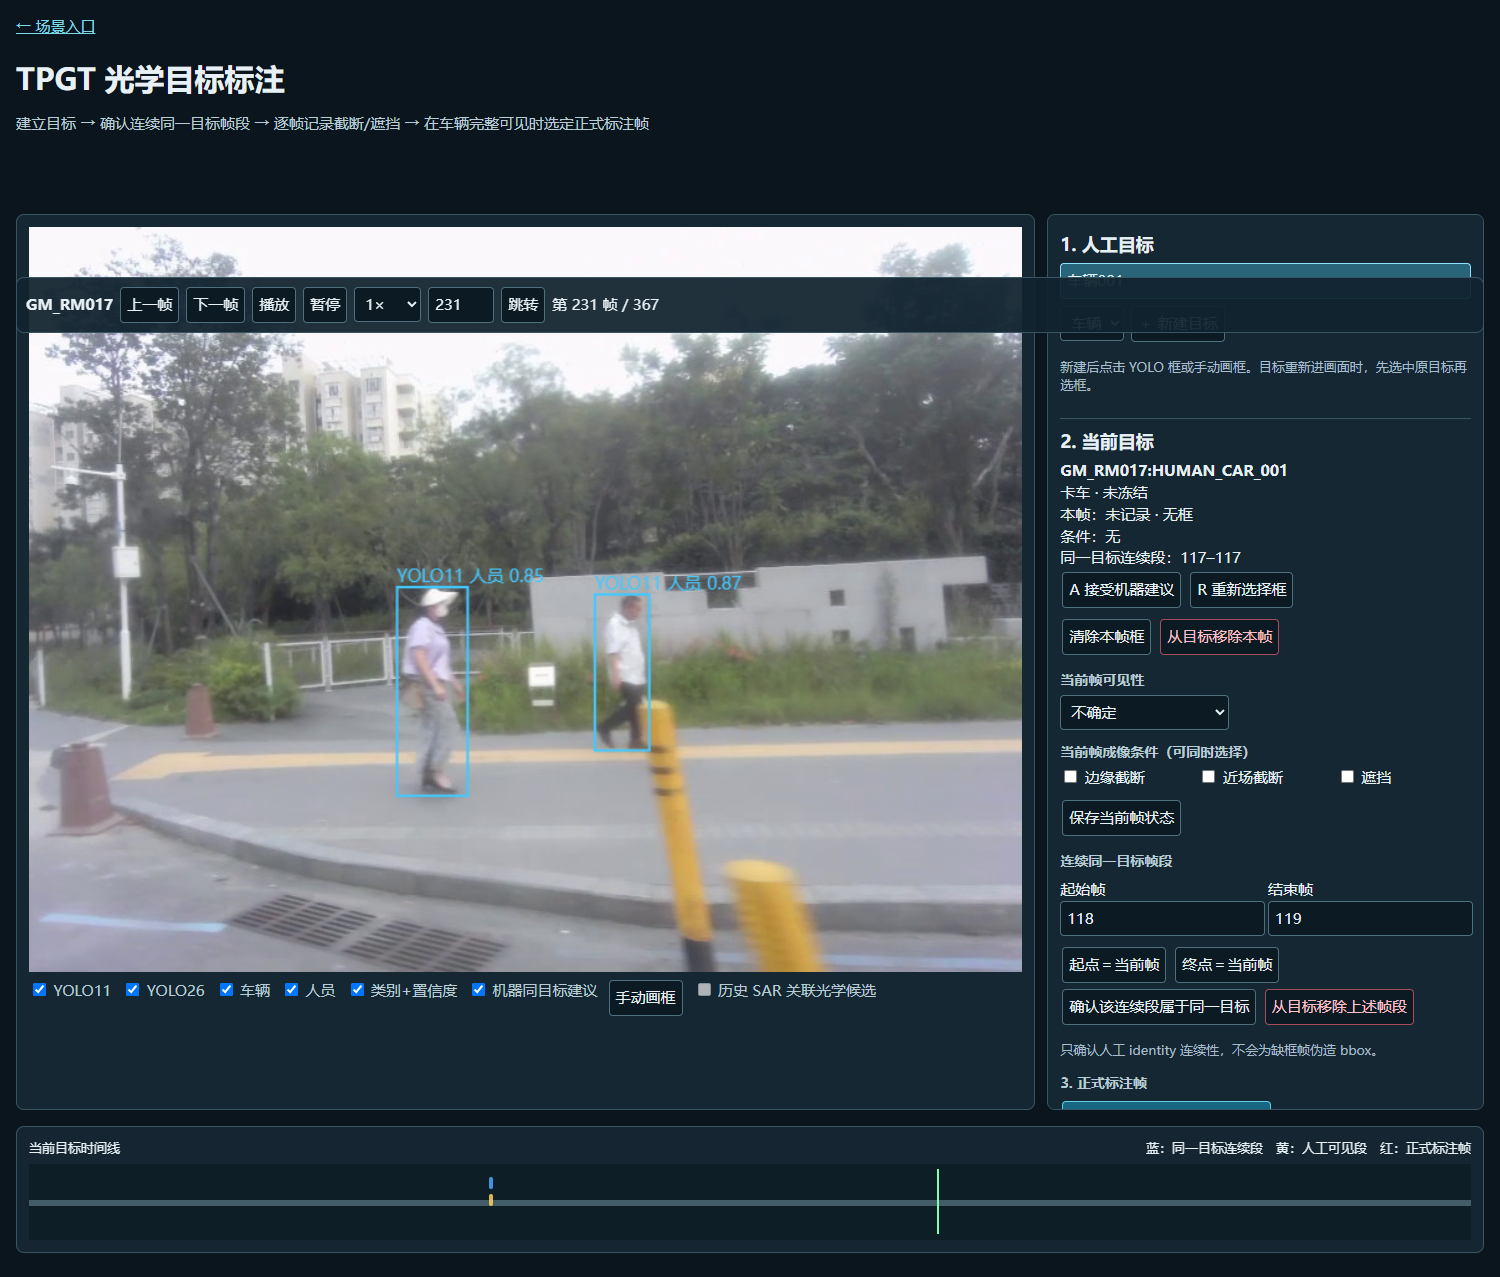
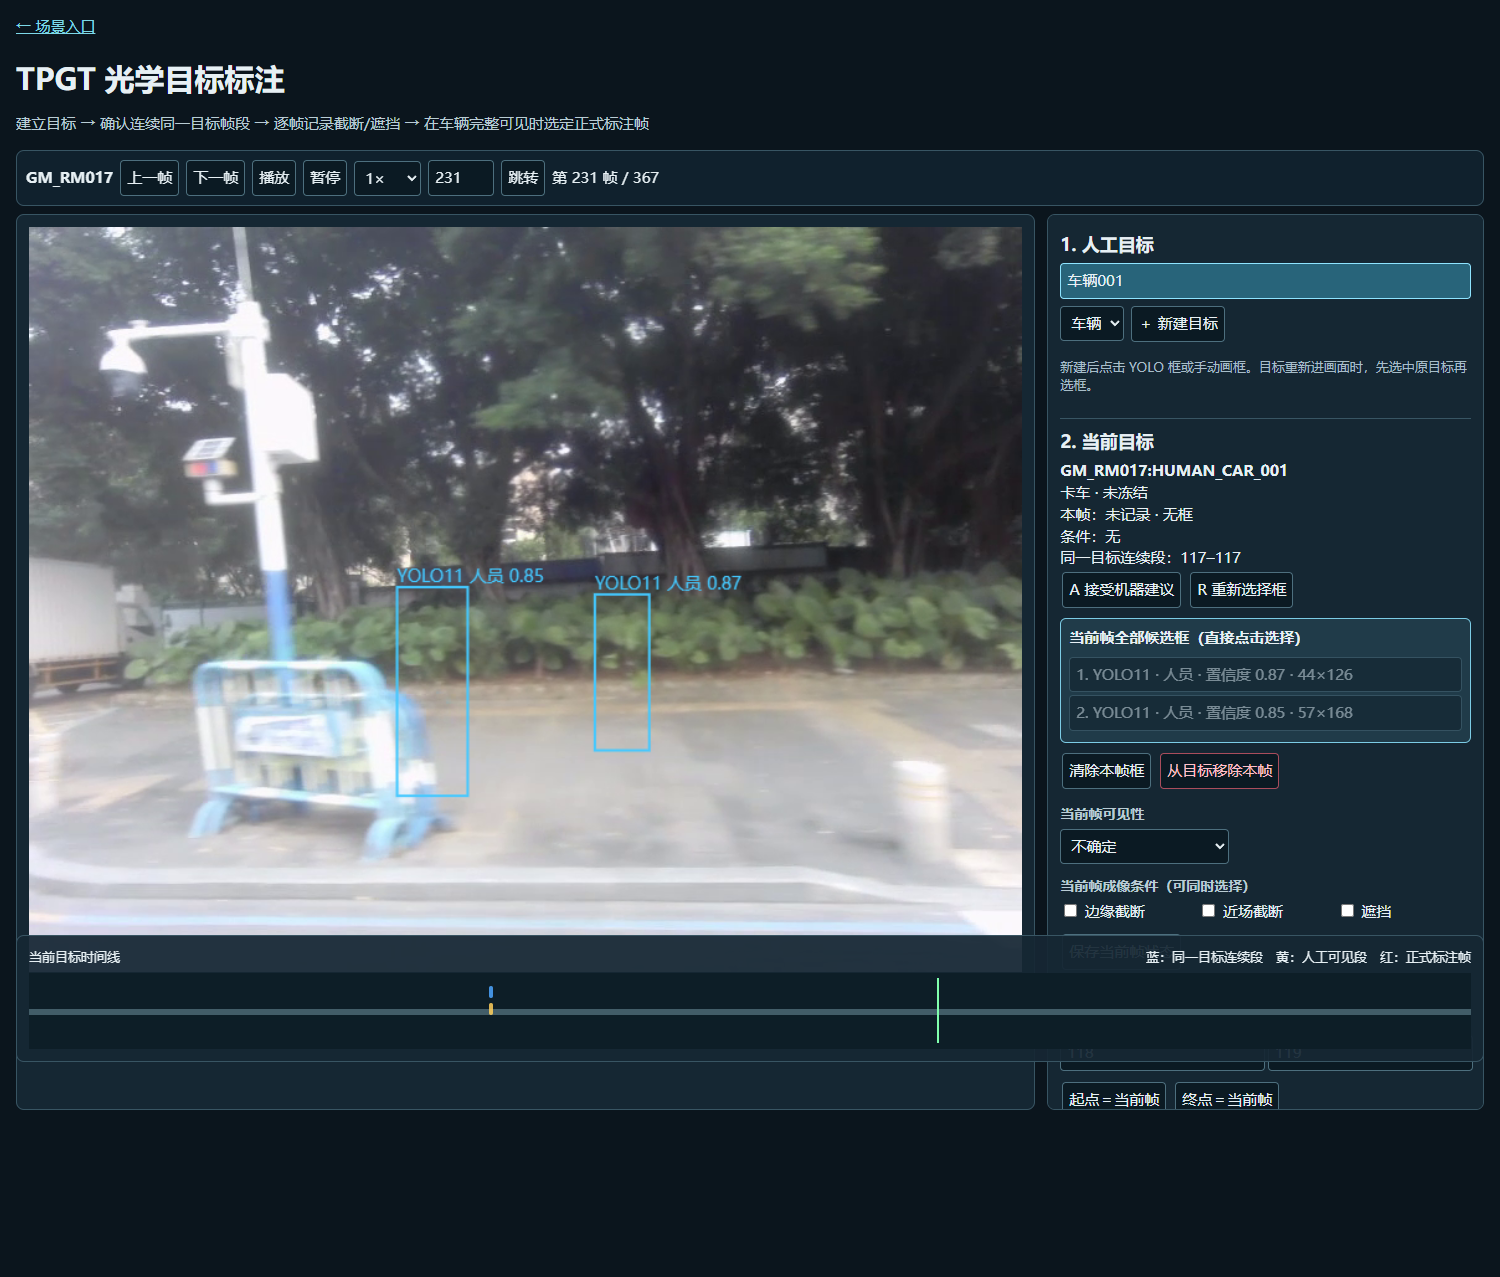
feat(tpgt): add persistent current-frame candidate list

diff --git a/output/tpgt/unified_target_review_observation/target_review.css b/output/tpgt/unified_target_review_observation/target_review.css
@@ -1,1 +1,2 @@
 body{margin:0;background:#0b151d;color:#e7f0f4;font:15px/1.45 system-ui,Segoe UI,sans-serif}main{max-width:1600px;margin:auto;padding:16px}a{color:#7dd8e8}.panel,.scene-card{background:#152733;border:1px solid #385563;border-radius:8px;padding:12px;margin:8px 0}.scene-grid{display:grid;grid-template-columns:repeat(3,1fr);gap:14px;margin-top:18px}.scene-card{display:flex;flex-direction:column;gap:8px;text-decoration:none;font-size:18px}.scene-card span{font-size:14px;color:#b9ccd4}.workflow-hint{margin-top:-8px;color:#b9ccd4}.toolbar{position:sticky;top:0;z-index:5;background:#10222eee;padding:9px;border:1px solid #385563;border-radius:8px;display:flex;gap:7px;align-items:center;flex-wrap:wrap}button,input,select,textarea{font:inherit;background:#0b1a23;color:#e7f0f4;border:1px solid #4d6f7e;border-radius:4px;padding:6px}button{cursor:pointer}.primary{background:#176783;border-color:#65cce8}.warn{background:#795717}.danger{color:#ffb3be}.danger-button{border-color:#a94d5c;color:#ffc0c8}.muted{color:#a7bdc8;font-size:13px}.review-layout{display:grid;grid-template-columns:7fr 3fr;gap:12px}.stage{position:relative;background:#000;line-height:0;overflow:hidden;min-height:300px}.stage img{display:block;width:100%;height:auto}.stage canvas{position:absolute;inset:0;width:100%;height:100%;cursor:crosshair}.legend{display:flex;gap:11px;flex-wrap:wrap;color:#b9ccd4;margin-top:8px}.side{max-height:calc(100vh - 130px);overflow:auto}.side-section{border-bottom:1px solid #385563;padding-bottom:10px;margin-bottom:10px}.side-section:last-child{border-bottom:0}.side h2{font-size:18px;margin:5px 0}.side h3{font-size:14px;color:#b9ccd4;margin:12px 0 5px}.side button{margin:3px 2px}.compact-row{display:flex;gap:5px;align-items:center;flex-wrap:wrap}.frame-actions{margin-top:5px}.condition-grid{display:grid;grid-template-columns:repeat(3,1fr);gap:4px;margin:5px 0 8px}.target-item{display:block;width:100%;text-align:left;margin:4px 0!important}.target-item.active{background:#28647a;border-color:#8ee4ff}.proposal-chooser{background:#203b49;border:1px solid #7ccce5;border-radius:6px;padding:8px;margin:7px 0}.proposal-choice{display:block!important;width:100%;text-align:left}.proposal-preview{outline:2px solid #fff36b}.timeline-panel{position:sticky;bottom:0;background:#152733ee;z-index:4}.timeline-head{display:flex;justify-content:space-between;gap:12px;font-size:13px}.timeline{width:100%;height:76px;background:#0d1e27;position:relative;margin-top:6px;cursor:pointer}.track{height:6px;position:absolute;left:0;right:0;top:36px;background:#425d68}.band{position:absolute;height:12px;border-radius:4px;opacity:.85}.identity{background:#4ca6ff;top:13px}.human{background:#ffcf5b;top:30px}.annotation-mark{position:absolute;top:48px!important;width:4px!important;height:20px!important;background:#ff665f}.timeline #playhead{position:absolute;top:5px;width:2px;height:65px;background:#80ffad;z-index:3}.interval{display:grid;grid-template-columns:1fr 1fr;gap:5px;margin:8px 0}.interval input{width:calc(100% - 12px)}.small{font-size:12px}.hidden{display:none!important}@media(max-width:950px){.review-layout,.scene-grid{grid-template-columns:1fr}.timeline-panel{position:static}.side{max-height:none}.condition-grid{grid-template-columns:1fr}}
+ .candidate-list{max-height:190px;overflow:auto;margin-top:5px}.candidate-choice{display:block!important;width:100%;text-align:left;margin:3px 0!important}.candidate-choice.incompatible{opacity:.45;cursor:not-allowed}.candidate-choice.selected-preview{background:#7a6a1f;border-color:#fff36b}

diff --git a/tasks/tpgt_unified_target_review_observation/target_review.css b/tasks/tpgt_unified_target_review_observation/target_review.css
@@ -1,1 +1,2 @@
 body{margin:0;background:#0b151d;color:#e7f0f4;font:15px/1.45 system-ui,Segoe UI,sans-serif}main{max-width:1600px;margin:auto;padding:16px}a{color:#7dd8e8}.panel,.scene-card{background:#152733;border:1px solid #385563;border-radius:8px;padding:12px;margin:8px 0}.scene-grid{display:grid;grid-template-columns:repeat(3,1fr);gap:14px;margin-top:18px}.scene-card{display:flex;flex-direction:column;gap:8px;text-decoration:none;font-size:18px}.scene-card span{font-size:14px;color:#b9ccd4}.workflow-hint{margin-top:-8px;color:#b9ccd4}.toolbar{position:sticky;top:0;z-index:5;background:#10222eee;padding:9px;border:1px solid #385563;border-radius:8px;display:flex;gap:7px;align-items:center;flex-wrap:wrap}button,input,select,textarea{font:inherit;background:#0b1a23;color:#e7f0f4;border:1px solid #4d6f7e;border-radius:4px;padding:6px}button{cursor:pointer}.primary{background:#176783;border-color:#65cce8}.warn{background:#795717}.danger{color:#ffb3be}.danger-button{border-color:#a94d5c;color:#ffc0c8}.muted{color:#a7bdc8;font-size:13px}.review-layout{display:grid;grid-template-columns:7fr 3fr;gap:12px}.stage{position:relative;background:#000;line-height:0;overflow:hidden;min-height:300px}.stage img{display:block;width:100%;height:auto}.stage canvas{position:absolute;inset:0;width:100%;height:100%;cursor:crosshair}.legend{display:flex;gap:11px;flex-wrap:wrap;color:#b9ccd4;margin-top:8px}.side{max-height:calc(100vh - 130px);overflow:auto}.side-section{border-bottom:1px solid #385563;padding-bottom:10px;margin-bottom:10px}.side-section:last-child{border-bottom:0}.side h2{font-size:18px;margin:5px 0}.side h3{font-size:14px;color:#b9ccd4;margin:12px 0 5px}.side button{margin:3px 2px}.compact-row{display:flex;gap:5px;align-items:center;flex-wrap:wrap}.frame-actions{margin-top:5px}.condition-grid{display:grid;grid-template-columns:repeat(3,1fr);gap:4px;margin:5px 0 8px}.target-item{display:block;width:100%;text-align:left;margin:4px 0!important}.target-item.active{background:#28647a;border-color:#8ee4ff}.proposal-chooser{background:#203b49;border:1px solid #7ccce5;border-radius:6px;padding:8px;margin:7px 0}.proposal-choice{display:block!important;width:100%;text-align:left}.proposal-preview{outline:2px solid #fff36b}.timeline-panel{position:sticky;bottom:0;background:#152733ee;z-index:4}.timeline-head{display:flex;justify-content:space-between;gap:12px;font-size:13px}.timeline{width:100%;height:76px;background:#0d1e27;position:relative;margin-top:6px;cursor:pointer}.track{height:6px;position:absolute;left:0;right:0;top:36px;background:#425d68}.band{position:absolute;height:12px;border-radius:4px;opacity:.85}.identity{background:#4ca6ff;top:13px}.human{background:#ffcf5b;top:30px}.annotation-mark{position:absolute;top:48px!important;width:4px!important;height:20px!important;background:#ff665f}.timeline #playhead{position:absolute;top:5px;width:2px;height:65px;background:#80ffad;z-index:3}.interval{display:grid;grid-template-columns:1fr 1fr;gap:5px;margin:8px 0}.interval input{width:calc(100% - 12px)}.small{font-size:12px}.hidden{display:none!important}@media(max-width:950px){.review-layout,.scene-grid{grid-template-columns:1fr}.timeline-panel{position:static}.side{max-height:none}.condition-grid{grid-template-columns:1fr}}
+ .candidate-list{max-height:190px;overflow:auto;margin-top:5px}.candidate-choice{display:block!important;width:100%;text-align:left;margin:3px 0!important}.candidate-choice.incompatible{opacity:.45;cursor:not-allowed}.candidate-choice.selected-preview{background:#7a6a1f;border-color:#fff36b}

diff --git a/output/tpgt/unified_target_review_observation/target_review.js b/output/tpgt/unified_target_review_observation/target_review.js
@@ -26,6 +26,7 @@
   let pendingNewTarget = false;
   let pendingChoices = [];
   let previewChoiceIndex = null;
+  let currentPreviewIndex = null;
 
   function blankReview() {
     return {
@@ -178,6 +179,29 @@
     previewChoiceIndex = null;
     $('proposalChooser').classList.add('hidden');
     $('proposalChoices').innerHTML = '';
+  }
+
+  function renderCurrentFrameCandidates(target) {
+    const list = $('currentFrameCandidateList');
+    const choices = detections(frame).filter(detectionVisible);
+    currentPreviewIndex = null;
+    if (!choices.length) {
+      list.className = 'candidate-list muted';
+      list.textContent = '当前帧没有 detector 候选；可以使用“手动画框”。';
+      return;
+    }
+    list.className = 'candidate-list';
+    list.innerHTML = choices.map((detection, index) => {
+      const incompatible = target && !pendingNewTarget && !sameTargetDomain(target.class, detection.class_name);
+      const width = Math.round(detection.x2 - detection.x1);
+      const height = Math.round(detection.y2 - detection.y1);
+      return `<button class="candidate-choice ${incompatible ? 'incompatible' : ''}" data-candidate="${index}" ${incompatible ? 'disabled title="当前目标类别不匹配"' : ''}>${index + 1}. ${detection.model} · ${zh[detection.class_name] || detection.class_name} · 置信度 ${detection.confidence.toFixed(2)} · ${width}×${height}</button>`;
+    }).join('');
+    document.querySelectorAll('.candidate-choice').forEach(button => {
+      button.onmouseenter = () => {currentPreviewIndex = Number(button.dataset.candidate); draw();};
+      button.onmouseleave = () => {currentPreviewIndex = null; draw();};
+      button.onclick = () => useBox(choices[Number(button.dataset.candidate)], choices[Number(button.dataset.candidate)].model, choices[Number(button.dataset.candidate)].class_name);
+    });
   }
 
   function showProposalChooser(choices) {
@@ -375,6 +399,18 @@
         context.restore();
       }
     }
+    if (currentPreviewIndex != null) {
+      const currentCandidates = detections(frame).filter(detectionVisible);
+      const preview = currentCandidates[currentPreviewIndex];
+      if (preview) {
+        context.save();
+        context.strokeStyle = '#fff36b';
+        context.lineWidth = 8;
+        context.setLineDash([18, 8]);
+        context.strokeRect(preview.x1, preview.y1, preview.x2 - preview.x1, preview.y2 - preview.y1);
+        context.restore();
+      }
+    }
 
     $('sceneTitle').textContent = sceneId;
     $('frameInfo').textContent = `第 ${frame} 帧 / ${scene.frame_count - 1}`;
@@ -383,6 +419,7 @@
     $('identityStart').max = scene.frame_count - 1;
     $('identityEnd').max = scene.frame_count - 1;
     renderTargetList();
+    renderCurrentFrameCandidates(target);
 
     if (target) {
       const observation = target.frame_observations[frame] || {};

diff --git a/tasks/tpgt_unified_target_review_observation/target_review.js b/tasks/tpgt_unified_target_review_observation/target_review.js
@@ -26,6 +26,7 @@
   let pendingNewTarget = false;
   let pendingChoices = [];
   let previewChoiceIndex = null;
+  let currentPreviewIndex = null;
 
   function blankReview() {
     return {
@@ -178,6 +179,29 @@
     previewChoiceIndex = null;
     $('proposalChooser').classList.add('hidden');
     $('proposalChoices').innerHTML = '';
+  }
+
+  function renderCurrentFrameCandidates(target) {
+    const list = $('currentFrameCandidateList');
+    const choices = detections(frame).filter(detectionVisible);
+    currentPreviewIndex = null;
+    if (!choices.length) {
+      list.className = 'candidate-list muted';
+      list.textContent = '当前帧没有 detector 候选；可以使用“手动画框”。';
+      return;
+    }
+    list.className = 'candidate-list';
+    list.innerHTML = choices.map((detection, index) => {
+      const incompatible = target && !pendingNewTarget && !sameTargetDomain(target.class, detection.class_name);
+      const width = Math.round(detection.x2 - detection.x1);
+      const height = Math.round(detection.y2 - detection.y1);
+      return `<button class="candidate-choice ${incompatible ? 'incompatible' : ''}" data-candidate="${index}" ${incompatible ? 'disabled title="当前目标类别不匹配"' : ''}>${index + 1}. ${detection.model} · ${zh[detection.class_name] || detection.class_name} · 置信度 ${detection.confidence.toFixed(2)} · ${width}×${height}</button>`;
+    }).join('');
+    document.querySelectorAll('.candidate-choice').forEach(button => {
+      button.onmouseenter = () => {currentPreviewIndex = Number(button.dataset.candidate); draw();};
+      button.onmouseleave = () => {currentPreviewIndex = null; draw();};
+      button.onclick = () => useBox(choices[Number(button.dataset.candidate)], choices[Number(button.dataset.candidate)].model, choices[Number(button.dataset.candidate)].class_name);
+    });
   }
 
   function showProposalChooser(choices) {
@@ -375,6 +399,18 @@
         context.restore();
       }
     }
+    if (currentPreviewIndex != null) {
+      const currentCandidates = detections(frame).filter(detectionVisible);
+      const preview = currentCandidates[currentPreviewIndex];
+      if (preview) {
+        context.save();
+        context.strokeStyle = '#fff36b';
+        context.lineWidth = 8;
+        context.setLineDash([18, 8]);
+        context.strokeRect(preview.x1, preview.y1, preview.x2 - preview.x1, preview.y2 - preview.y1);
+        context.restore();
+      }
+    }
 
     $('sceneTitle').textContent = sceneId;
     $('frameInfo').textContent = `第 ${frame} 帧 / ${scene.frame_count - 1}`;
@@ -383,6 +419,7 @@
     $('identityStart').max = scene.frame_count - 1;
     $('identityEnd').max = scene.frame_count - 1;
     renderTargetList();
+    renderCurrentFrameCandidates(target);
 
     if (target) {
       const observation = target.frame_observations[frame] || {};

diff --git a/output/tpgt/unified_target_review_observation/TARGET_REVIEW_VIEW.html b/output/tpgt/unified_target_review_observation/TARGET_REVIEW_VIEW.html
@@ -50,6 +50,10 @@
           <div id="proposalChoices"></div>
           <button id="cancelProposalChoice">取消选择</button>
         </div>
+        <div id="currentFrameCandidates" class="proposal-chooser">
+          <b>当前帧全部候选框（直接点击选择）</b>
+          <div id="currentFrameCandidateList"></div>
+        </div>
         <div class="compact-row frame-actions">
           <button id="clearFrameBox">清除本帧框</button>
           <button id="removeFrameFromTarget" class="danger-button">从目标移除本帧</button>

diff --git a/tasks/tpgt_unified_target_review_observation/target_review_view.html b/tasks/tpgt_unified_target_review_observation/target_review_view.html
@@ -50,6 +50,10 @@
           <div id="proposalChoices"></div>
           <button id="cancelProposalChoice">取消选择</button>
         </div>
+        <div id="currentFrameCandidates" class="proposal-chooser">
+          <b>当前帧全部候选框（直接点击选择）</b>
+          <div id="currentFrameCandidateList"></div>
+        </div>
         <div class="compact-row frame-actions">
           <button id="clearFrameBox">清除本帧框</button>
           <button id="removeFrameFromTarget" class="danger-button">从目标移除本帧</button>

diff --git a/tasks/tpgt_unified_target_review_observation/check_unified_workbench.py b/tasks/tpgt_unified_target_review_observation/check_unified_workbench.py
@@ -43,6 +43,7 @@ with sync_playwright() as pw:
             "targetList", "newTarget", "manualBox", "edgeTruncated", "nearTruncated",
             "occluded", "identityStart", "identityEnd", "confirmIdentitySegment",
             "markAnnotation", "importTargets", "exportTargets", "proposalChooser",
+            "currentFrameCandidates", "currentFrameCandidateList",
             "clearFrameBox", "removeFrameFromTarget", "deleteTarget",
             "removeIdentityRange",
         ]

diff --git a/tasks/tpgt_unified_target_review_observation/README.md b/tasks/tpgt_unified_target_review_observation/README.md
@@ -4,7 +4,7 @@
 
 `identity_segments` 记录人工确认的同一目标连续性；`visible_segments` 由逐帧可见状态生成；`formal_annotations[]` 保存完整可见帧的正式 bbox 标注，`primary_annotation_frame_index` 指向当前主标注帧。批量确认 identity 区间不会给缺框帧插值或伪造 bbox。
 
-重叠 proposal 点击后通过候选列表人工选择，不再按面积静默决定。编辑操作分为“清除本帧框”（保留 identity）、“从目标移除本帧”、“从目标移除指定帧段”（同步截断或拆分 identity segment）和“删除整个未冻结目标”；纠错操作写入 `edit_history`，整目标删除保留在 `deleted_targets` 中。
+当前帧全部 proposal 现在常驻显示在右侧列表，不需要先点中图像区域；鼠标悬停列表项会高亮对应 bbox，直接点击即可选择。重叠 proposal 点击后也通过候选列表人工选择，不再按面积静默决定。编辑操作分为“清除本帧框”（保留 identity）、“从目标移除本帧”、“从目标移除指定帧段”（同步截断或拆分 identity segment）和“删除整个未冻结目标”；纠错操作写入 `edit_history`，整目标删除保留在 `deleted_targets` 中。
 
 边界：YOLO/B1.2/历史 SAR 关联只可作为 proposal/source provenance；不重跑 detector/tracker，不做 ReID、physical identity 自动生成、mapping、mechanism、final SAR box 或自动跨模态 assignment。活动工作区为 `D:/profile/research/workspace`，解释器为 `D:/MINICONDA/envs/py311/python.exe`。
 

diff --git a/tasks/tpgt_unified_target_review_observation/REPORT.md b/tasks/tpgt_unified_target_review_observation/REPORT.md
@@ -109,4 +109,6 @@ QA 结果写入 `output/tpgt/unified_target_review_observation/audit/unified_wor
 
 当多个 YOLO proposal 在同一点重叠时，页面现在显示候选列表（模型、类别、置信度、框尺寸），鼠标悬停可在图中预览，必须由用户明确选中一个候选。已有目标只列出同一目标域（PERSON 或 vehicle family）的候选，避免把人员框写入车辆目标。
 
+为解决“重叠太多，图上点不到想要的框”，当前帧全部 detector proposal 还会常驻显示在右侧候选列表；用户可不依赖图像点击，直接从列表选择目标框，悬停列表项会在图像中高亮对应框。
+
 纠错操作分层：`CLEAR_FRAME_BBOX` 只清除当前帧 bbox 并保留 identity；`REMOVE_FRAME_FROM_TARGET` 删除单帧 observation 并在该帧拆分连续 identity segment；`REMOVE_FRAME_RANGE_FROM_TARGET` 可批量移除错误尾段或中间段；整个未冻结目标可删除，但快照保存在 `deleted_targets`。冻结目标禁止直接删除。编辑历史随导出 JSON 保存。

diff --git a/logs/20260914_tpgt_overlap_selection_and_frame_removal.md b/logs/20260914_tpgt_overlap_selection_and_frame_removal.md
@@ -12,6 +12,7 @@
 ## Post-change
 
 - Overlapping visible proposals now open an explicit chooser with model, class, confidence, and box size. Hovering a choice previews its bbox in yellow.
+- All visible proposals for the current frame are now listed persistently in the right panel, so selection does not depend on hitting a pixel inside an overlapping bbox. Hovering a list item previews the corresponding bbox.
 - Existing targets only show proposals from the same target domain (PERSON versus vehicle family).
 - Added `CLEAR_FRAME_BBOX`, preserving identity while removing the bbox.
 - Added `REMOVE_FRAME_FROM_TARGET`, deleting one observation and splitting/trimming identity segments.
